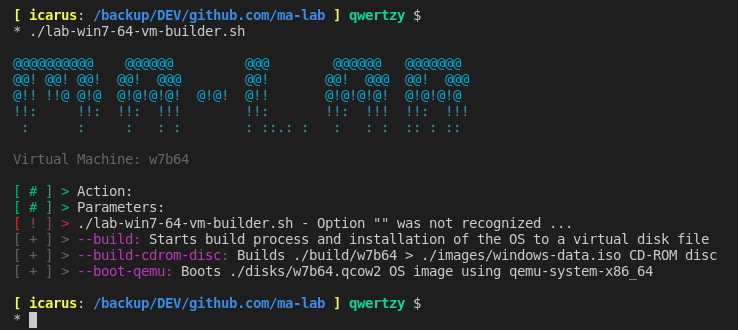
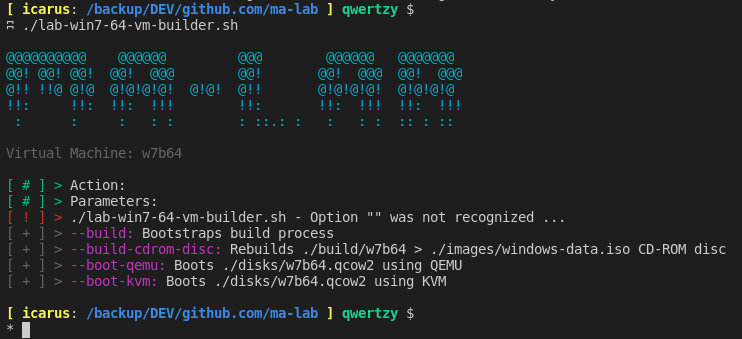
KVM

diff --git a/README.md b/README.md
@@ -4,7 +4,7 @@ Collection of bash scripts to automate the installation of an Operating System o
 
 **VMs**
 - Analysis machine: Windows 7 64 Bit (tested with GSP1RMCPRXFRER_EN_DVD iso)
-- Gateway machine: Ubuntu 20.04 Server
+- Gateway machine: Ubuntu 20.04 Server (TODO)
 
 **Dependencies**
 - KVM (Ubuntu `sudo apt install -y qemu qemu-kvm libvirt-daemon libvirt-clients bridge-utils virt-manager`)
@@ -32,10 +32,12 @@ Collection of bash scripts to automate the installation of an Operating System o
     - Customize VM_NAME, VM_DISK_SIZE, VM_DISK_TYPE variables
 
 4. Optional steps:
-    - Edit VM configuration files `autounattend.xml` (drives installation) and `vm-setup.ps1` (executed post installation) to suit your needs
+    - Edit VM configuration files `autounattend.xml` (drives the installation) and `vm-setup.ps1` (executed post installation) to suit your needs
     - Any files places inside `tools` directory will me included in the ISO build and copied over to the desktop.
 
-5. Execute `lab-win7-64-vm-builder.sh --build`.
+5. Execute `lab-win7-64-vm-builder.sh --build`:
+    - `lab-win7-64-vm-builder.sh --boot-menu`: Installs OS using QEMU
+    - `lab-win7-64-vm-builder.sh --boot-kvm`: Installs OS using KVM
 
 **Script description**
 - `lab-win7-64-vm-builder.sh` : Sets environment, downloads, build ISOs and executes QEMU to install the target OS on a virtual hard disk file.
@@ -43,8 +45,8 @@ Collection of bash scripts to automate the installation of an Operating System o
 ![](./screenshots/lab-win7-64-vm-builder.png)
 
 - `lab-network.sh` : Manages the lab network (bridges and states), definition XML files inside network directory. 
-- *`network-malnet-nat.xml`* : NAT network (name is malnet-wan, address='192.168.200.1', netmask='255.255.255.0', dhcp range start='192.168.200.2' end='192.168.200.254')
-- *`network-malnet-internal.xml`* : Private internal network (name is malnet-internal, mac address='B4:2E:99:3D:A8:43')
+    - *`network-malnet-nat.xml`* : NAT network (name is malnet-wan, address='192.168.200.1', netmask='255.255.255.0', dhcp range start='192.168.200.2' end='192.168.200.254')
+    - *`network-malnet-internal.xml`* : Private internal network (name is malnet-internal, mac address='B4:2E:99:3D:A8:43')
 
 ![](./screenshots/lab-network.png)
 
